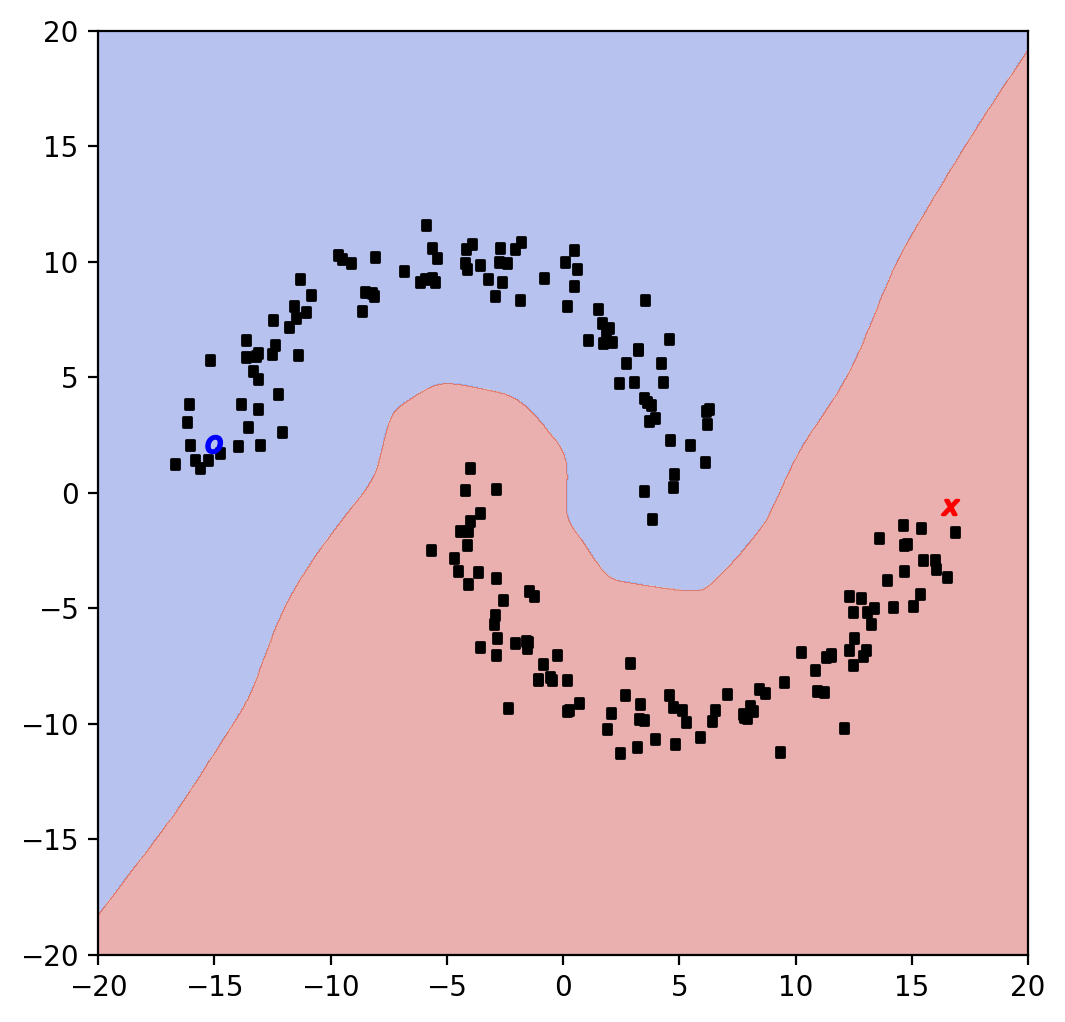
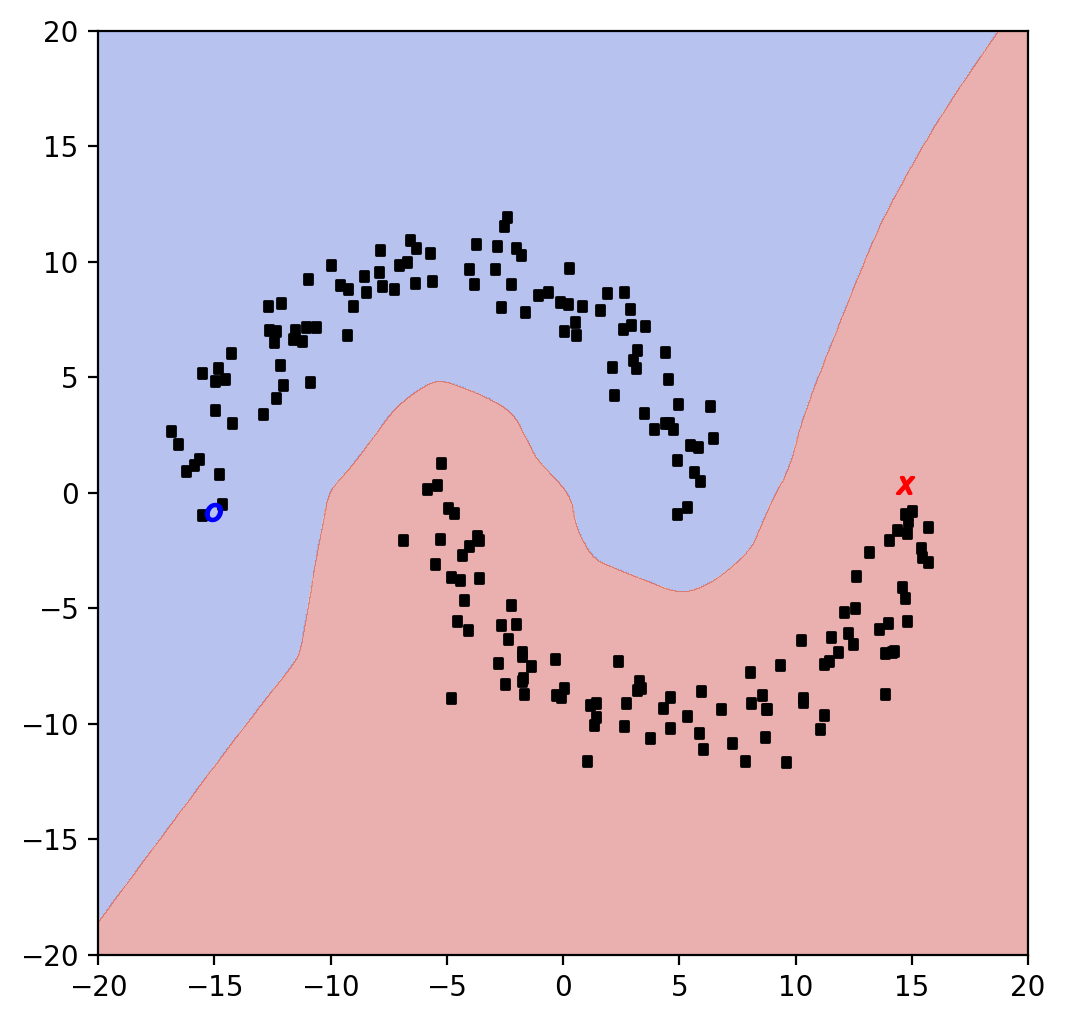
クラス比重み付け 実装

diff --git a/src/Lec9/cwls.py b/src/Lec9/cwls.py
@@ -1,0 +1,71 @@
+import numpy as np
+import matplotlib
+
+matplotlib.use('TkAgg')
+import matplotlib.pyplot as plt
+
+np.random.seed(10)
+
+def generate_data(n_total, n_positive):
+    x = np.random.normal(size=(n_total, 2))
+    x[:n_positive, 0] -= 2
+    x[n_positive:, 0] += 2
+    x[:, 1] *= 2
+    y = np.empty(n_total, dtype=np.int64)
+    y[:n_positive] = -1
+    y[n_positive:] = +1
+    return x, y
+
+
+def cwls(train_x, train_y, test_x):
+    num_positive = (train_y==-1).sum()
+
+    App, Apm, Amm = 0, 0, 0
+    for i in range(num_positive):
+        App += np.sum(np.linalg.norm(train_x[i] - train_x[:num_positive], axis=1)) / (num_positive * num_positive)
+        Apm += np.sum(np.linalg.norm(train_x[i] - train_x[num_positive:], axis=1)) / (num_positive * (len(train_y) - num_positive))
+    for i in range(len(train_y) - num_positive):
+        Amm += np.sum(np.linalg.norm(train_x[num_positive+i] - train_x[num_positive:], axis=1)) / ((len(train_y) - num_positive) * (len(train_y) - num_positive))    
+
+    bp, bm = 0, 0
+    for i in range(len(test_x)):
+        bp += np.sum(np.linalg.norm(test_x[i] - train_x[:num_positive], axis=1)) / (len(test_x) * num_positive)
+        bm += np.sum(np.linalg.norm(test_x[i] - train_x[num_positive:], axis=1)) / (len(test_x) * (len(train_y) - num_positive))
+
+    
+    pi_tilde = (Apm - Amm - bp + bm) / (2 * Apm - App - Amm)
+    pi_hat = min(1, max(0, pi_tilde))
+
+    print(pi_hat)
+
+    W = np.zeros((train_x.shape[0], train_x.shape[0]))
+    for i in range(len(W)):
+        if train_y[i] == -1:
+            W[i][i] = pi_hat
+        else:
+            W[i][i] = 1 - pi_hat
+    W = np.eye(train_x.shape[0])
+    Phi = np.ones((train_x.shape[0], 3))
+    Phi[:, 1:] = train_x
+    A = Phi.T.dot(W.dot(Phi))
+    b = Phi.T.dot(W.dot(train_y))
+    theta = np.linalg.solve(A, b)
+    return theta
+
+def visualize(train_x, train_y, test_x, test_y, theta):
+    for x, y, name in [(train_x, train_y, 'train'), (test_x, test_y, 'test')]:
+        plt.clf()
+        plt.figure(figsize=(6, 6))
+        plt.xlim(-5., 5.)
+        plt.ylim(-7., 7.)
+        lin = np.array([-5., 5.])
+        plt.plot(lin, -(theta[0] + lin * theta[1]) / theta[2], c='limegreen')
+        plt.scatter(x[y == -1][:, 0], x[y == -1][:, 1], marker='$O$', c='blue')
+        plt.scatter(x[y == +1][:, 0], x[y == +1][:, 1], marker='$X$', c='red')
+        plt.savefig('../../output/Lec9/result_no_weight_{}.png'.format(name), dpi=200, bbox_inches='tight')
+
+
+train_x, train_y = generate_data(n_total=100, n_positive=90)
+eval_x, eval_y = generate_data(n_total=100, n_positive=10)
+theta = cwls(train_x, train_y, eval_x)
+visualize(train_x, train_y, eval_x, eval_y, theta)
